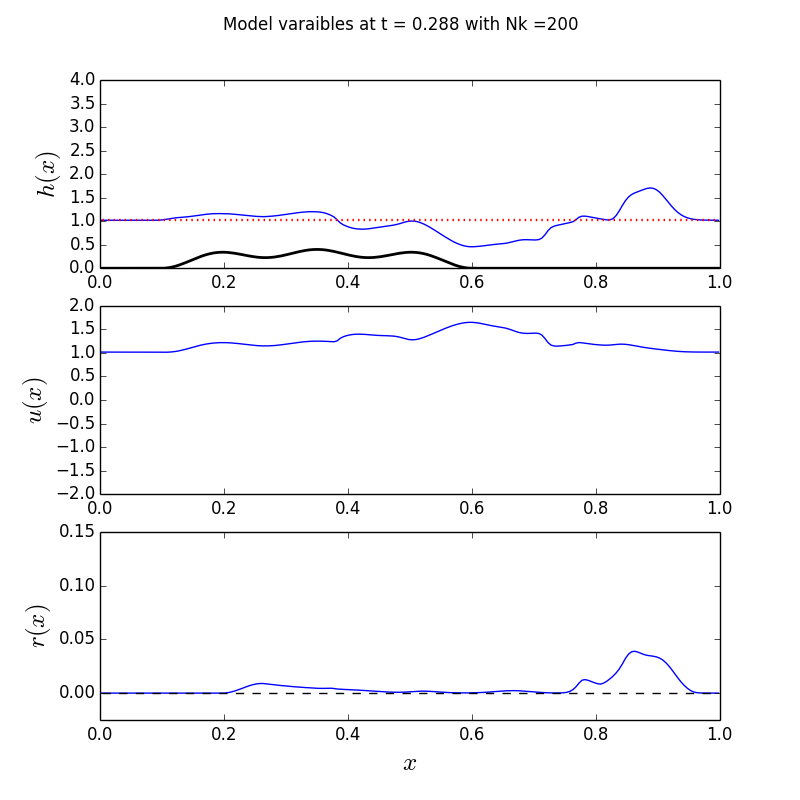
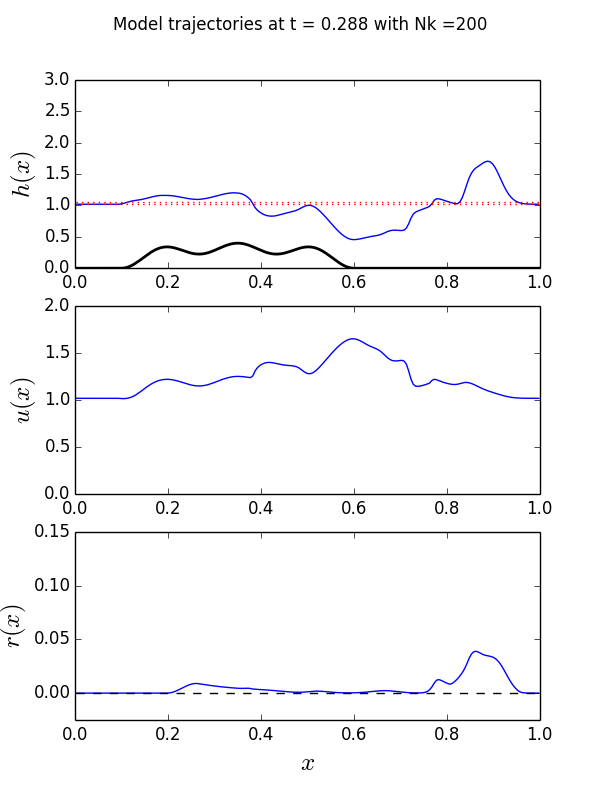
tkmac

diff --git a/run_modRSW.py b/run_modRSW.py
@@ -26,7 +26,7 @@ from init_cond_modRSW import init_cond_topog_cos, init_cond_topog
 
 
 # CHOOSE resolution
-Nk = 200
+Nk = 800
 # CHOOSE INITIAL PROFILE FROM init_cond_modRSW:
 ic = init_cond_topog_cos
 
@@ -127,18 +127,18 @@ while tn < tmax:
         print ' '
         print 'Plotting at time =',tmeasure
 
-        fig, axes = plt.subplots(3, 1, figsize=(8,8))
-        plt.suptitle("Model varaibles at t = %.3f with Nk =%d" %(tmeasure,Nk))
+        fig, axes = plt.subplots(3, 1, figsize=(6,8))
+        plt.suptitle("Model trajectories at t = %.3f with Nk =%d" %(tmeasure,Nk))
         
         axes[0].plot(xc, U[0,:]+B, 'b')
         axes[0].plot(xc, B, 'k', linewidth=2.0)
         axes[0].plot(xc,Hc*np.ones(len(xc)),'r:')
         axes[0].plot(xc,Hr*np.ones(len(xc)),'r:')
-        axes[0].set_ylim([0,4*H0])
+        axes[0].set_ylim([0,3*H0])
         axes[0].set_ylabel('$h(x)$',fontsize=18)
         
         axes[1].plot(xc, U[1,:]/U[0,:], 'b')
-        axes[1].set_ylim([-2,2])
+        axes[1].set_ylim([0,2])
         axes[1].set_ylabel('$u(x)$',fontsize=18)
 
         axes[2].plot(xc, U[2,:]/U[0,:], 'b')
@@ -169,6 +169,8 @@ print ' Saving simulation data in:', dirn
 np.save(str(dirn+'/U_array_Nk%d' %Nk),U_array)
 np.save(str(dirn+'/B_Nk%d' %Nk),B)
 
+print ' '
+print ' CHECK data value: maximum h(x) at t = 0.288:' , np.max(U_array[0,:,2])
 print ' '
 print ' -------------- SUMMARY: ------------- '  
 print ' ' 

diff --git a/README.md b/README.md
@@ -141,7 +141,7 @@ To kill at any point, press ```Ctrl+c```, or kill the active processes using ```
 
 ## Test cases
 
-### Model only: integration and dynamics
+### 1. Model only: integration and dynamics
 
 Given a computational mesh, model parameters, and an initial condition, the model can be integrated to a specified finite time. The ```run_modRSW.py``` script achieves this, using functions from ```f_modRSW.py```, initial conditions from ```init_cond_modRSW.py``` and parameters from ```parameters.py```, plotting the model variables at given times.
 
@@ -173,9 +173,12 @@ To run this from the terminal:
 python run_modRSW.py
 ```
 
-First, the initial condition is generated and a figure saved in  ```cwd/test_model```. Then the integration starts and figures and simulation data are saved in  ```cwd/test_model``` at the given times. This should be clear from the text that is printed to the terminal. When ```tmax``` is reached, the integration stops and a summary of the simulation is printed to the terminal.
+First, the initial condition is generated and a figure saved in  ```cwd/test_model```. Then the integration starts and figures and simulation data are saved in  ```cwd/test_model``` at the given times. This should be clear from the text that is printed to the terminal. When ```tmax``` is reached, the integration stops and a summary of the simulation is printed to the terminal. Just above the summary on the terminal, the maximum value of h(x) at time t=0.288 is given; verify that the same numerical value is obtained:
+```
+CHECK data value: maximum h(x) at t = 0.288: 1.70591737156
+```
 
-Once complete, check the saved figures: go to the directory ```test_model``` and open the figures and compare with the figure below (```t2_Nk200```).
+Also check the saved figures: go to the directory ```test_model``` and open the figures and compare with the figure below (```t2_Nk200```).
 
 ![t2_Nk200](figs/t2_Nk200.png)
 
@@ -183,7 +186,11 @@ In idealised forecast-assimilation experiments, it is typical to use a finer res
 ```
 python run_modRSW.py
 ```
-This simulation will take longer since the smaller grid-length requires a smaller time step for stability. When complete, check the saved figures.
+This simulation will take longer since the smaller grid-length requires a smaller time step for stability. As before, verify that the same numerical value for the height variable is obtained:
+```
+CHECK data value: maximum h(x) at t = 0.288: 2.15336146511
+```
+Also check the saved figures, and compare with the figure below (```t2_Nk800```).
 
 ![t2_Nk800](figs/t2_Nk800.png)
 
@@ -195,11 +202,11 @@ This plots four figures (for the four times the data is saved) and saves them in
 
 ![t2_compare](figs/T2_compare.png)
 
-In idealised DA experiments, the Nk=200 simulation represents the forecast the Nk=800 simulation is the nature run. This figure shows an example trajectory of both forecast and nature at a given time: h (top), u (middle), and r (bottom) from the forecast model (left) and the nature run (right). The forecast trajectory is smoother and exhibits 'under-resolved' convection and precipitation while the nature run has sharper 'resolved' features and is a proxy for the truth. The thick black line in the top panels is the topography, the red dotted lines are the threshold heights. 
+In idealised DA experiments, the Nk=200 simulation represents the forecast and the Nk=800 simulation is the nature run. This figure shows an example trajectory of both forecast and nature at a given time: h (top), u (middle), and r (bottom) from the forecast model (left) and the nature run (right). The forecast trajectory is smoother and exhibits 'under-resolved' convection and precipitation while the nature run has sharper 'resolved' features and is a proxy for the truth. The thick black line in the top panels is the topography, the red dotted lines are the threshold heights. 
 
-Conceptually, the basic data assimilation problem can be summarised using this figure: adjust the forecast (left) using pseudo-observations of the ``truth'' in order to provide a better estimate of the nature run (right). 
+Conceptually, the basic data assimilation problem can be summarised using this figure: adjust the forecast (left) using pseudo-observations (generated by noisy samples of the nature run) in order to provide a better estimate of the nature run (right). 
 
-### Idealised forecast-assimilation experiment
+### 2. Idealised forecast-assimilation experiments
 
 #### Running an experiment
 
@@ -256,7 +263,7 @@ more readme.txt
 
 Now the data has been saved, we can move on to plotting and data analysis...
 
-#### Plotting results from experiments
+#### Plotting 
 
 TEXT....
 
